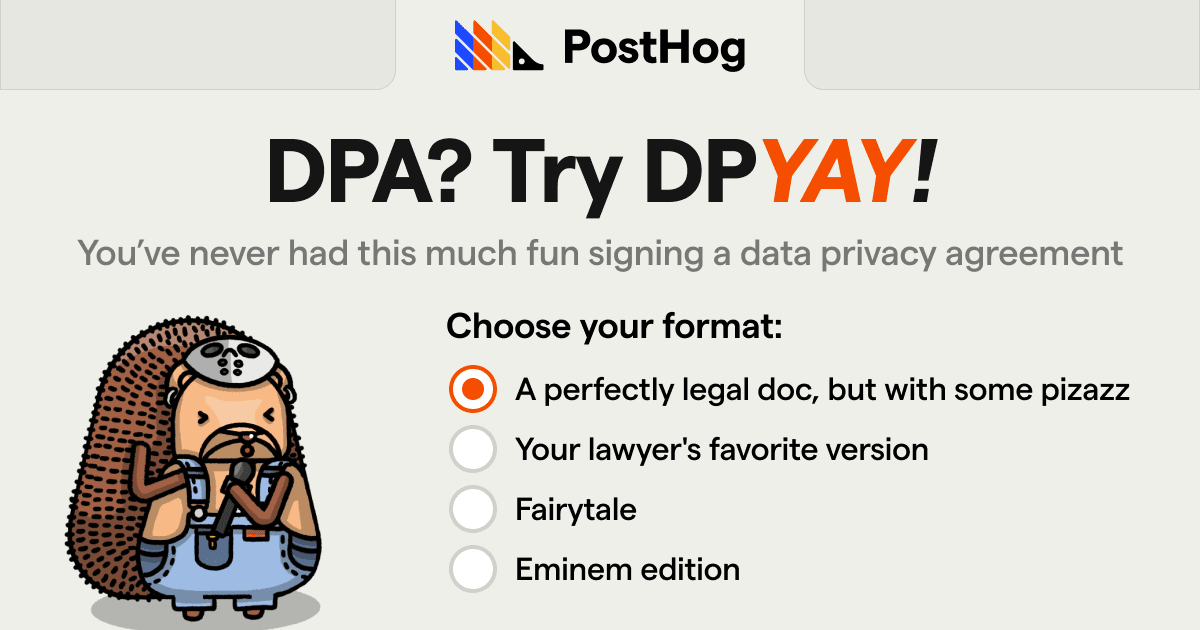
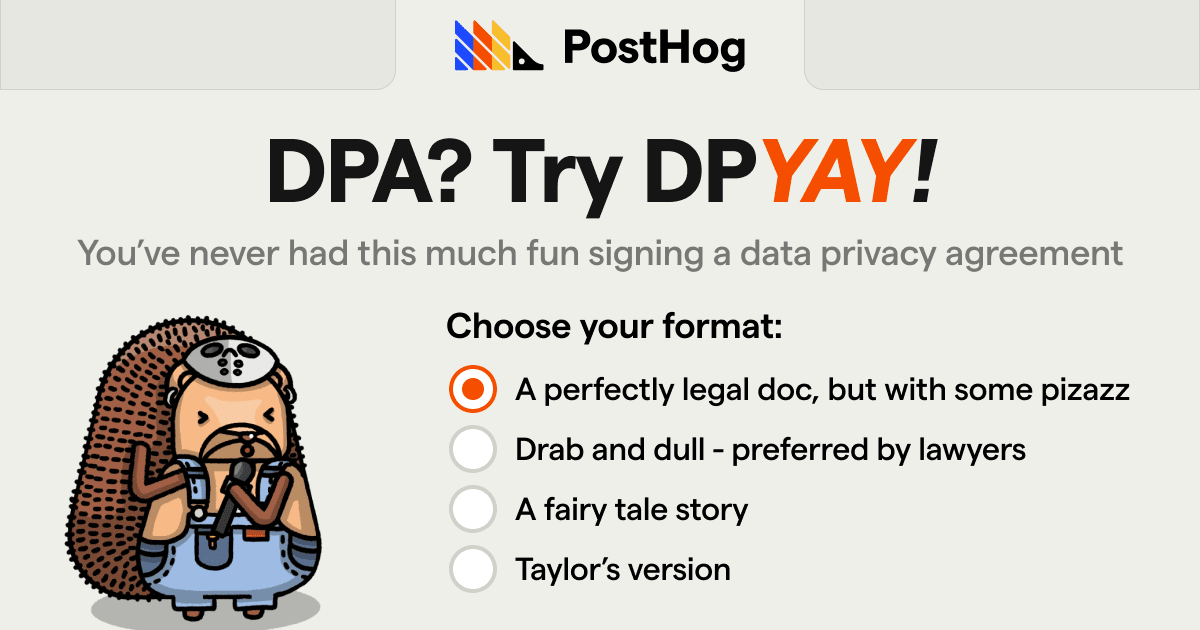
eminem → t swift

Changed region(s): [[0.4317, 0.6937, 0.8633, 0.754], [0.4317, 0.8746, 0.6167, 0.9349], [0.4317, 0.7841, 0.6167, 0.8444]]

diff --git a/src/pages/dpa.tsx b/src/pages/dpa.tsx
@@ -462,7 +462,7 @@ function DpaGenerator() {
                                         A perfectly legal doc, but with some pizazz
                                     </label>
                                     <div className="block text-sm opacity-75">
-                                        Holds up in a court of law, but with a nicer font and a pretty logo
+                                        Holds up in a court of law, but with a nicer font and a color logo
                                     </div>
                                 </li>
                                 <li className="pl-7 relative">
@@ -475,7 +475,7 @@ function DpaGenerator() {
                                         onChange={handleInputChange}
                                     />
                                     <label className="font-semibold" htmlFor="lawyer">
-                                        Your lawyer's favorite version
+                                        Drab and dull - preferred by lawyers
                                     </label>
                                     <br />
                                     <div className="block text-sm opacity-75">
@@ -492,7 +492,7 @@ function DpaGenerator() {
                                         onChange={handleInputChange}
                                     />
                                     <label className="font-semibold" htmlFor="fairytale">
-                                        Fairytale
+                                        A fairy tale story
                                     </label>
                                     <br />
                                     <div className="block text-sm opacity-75">"Explain it to me like I'm five"</div>
